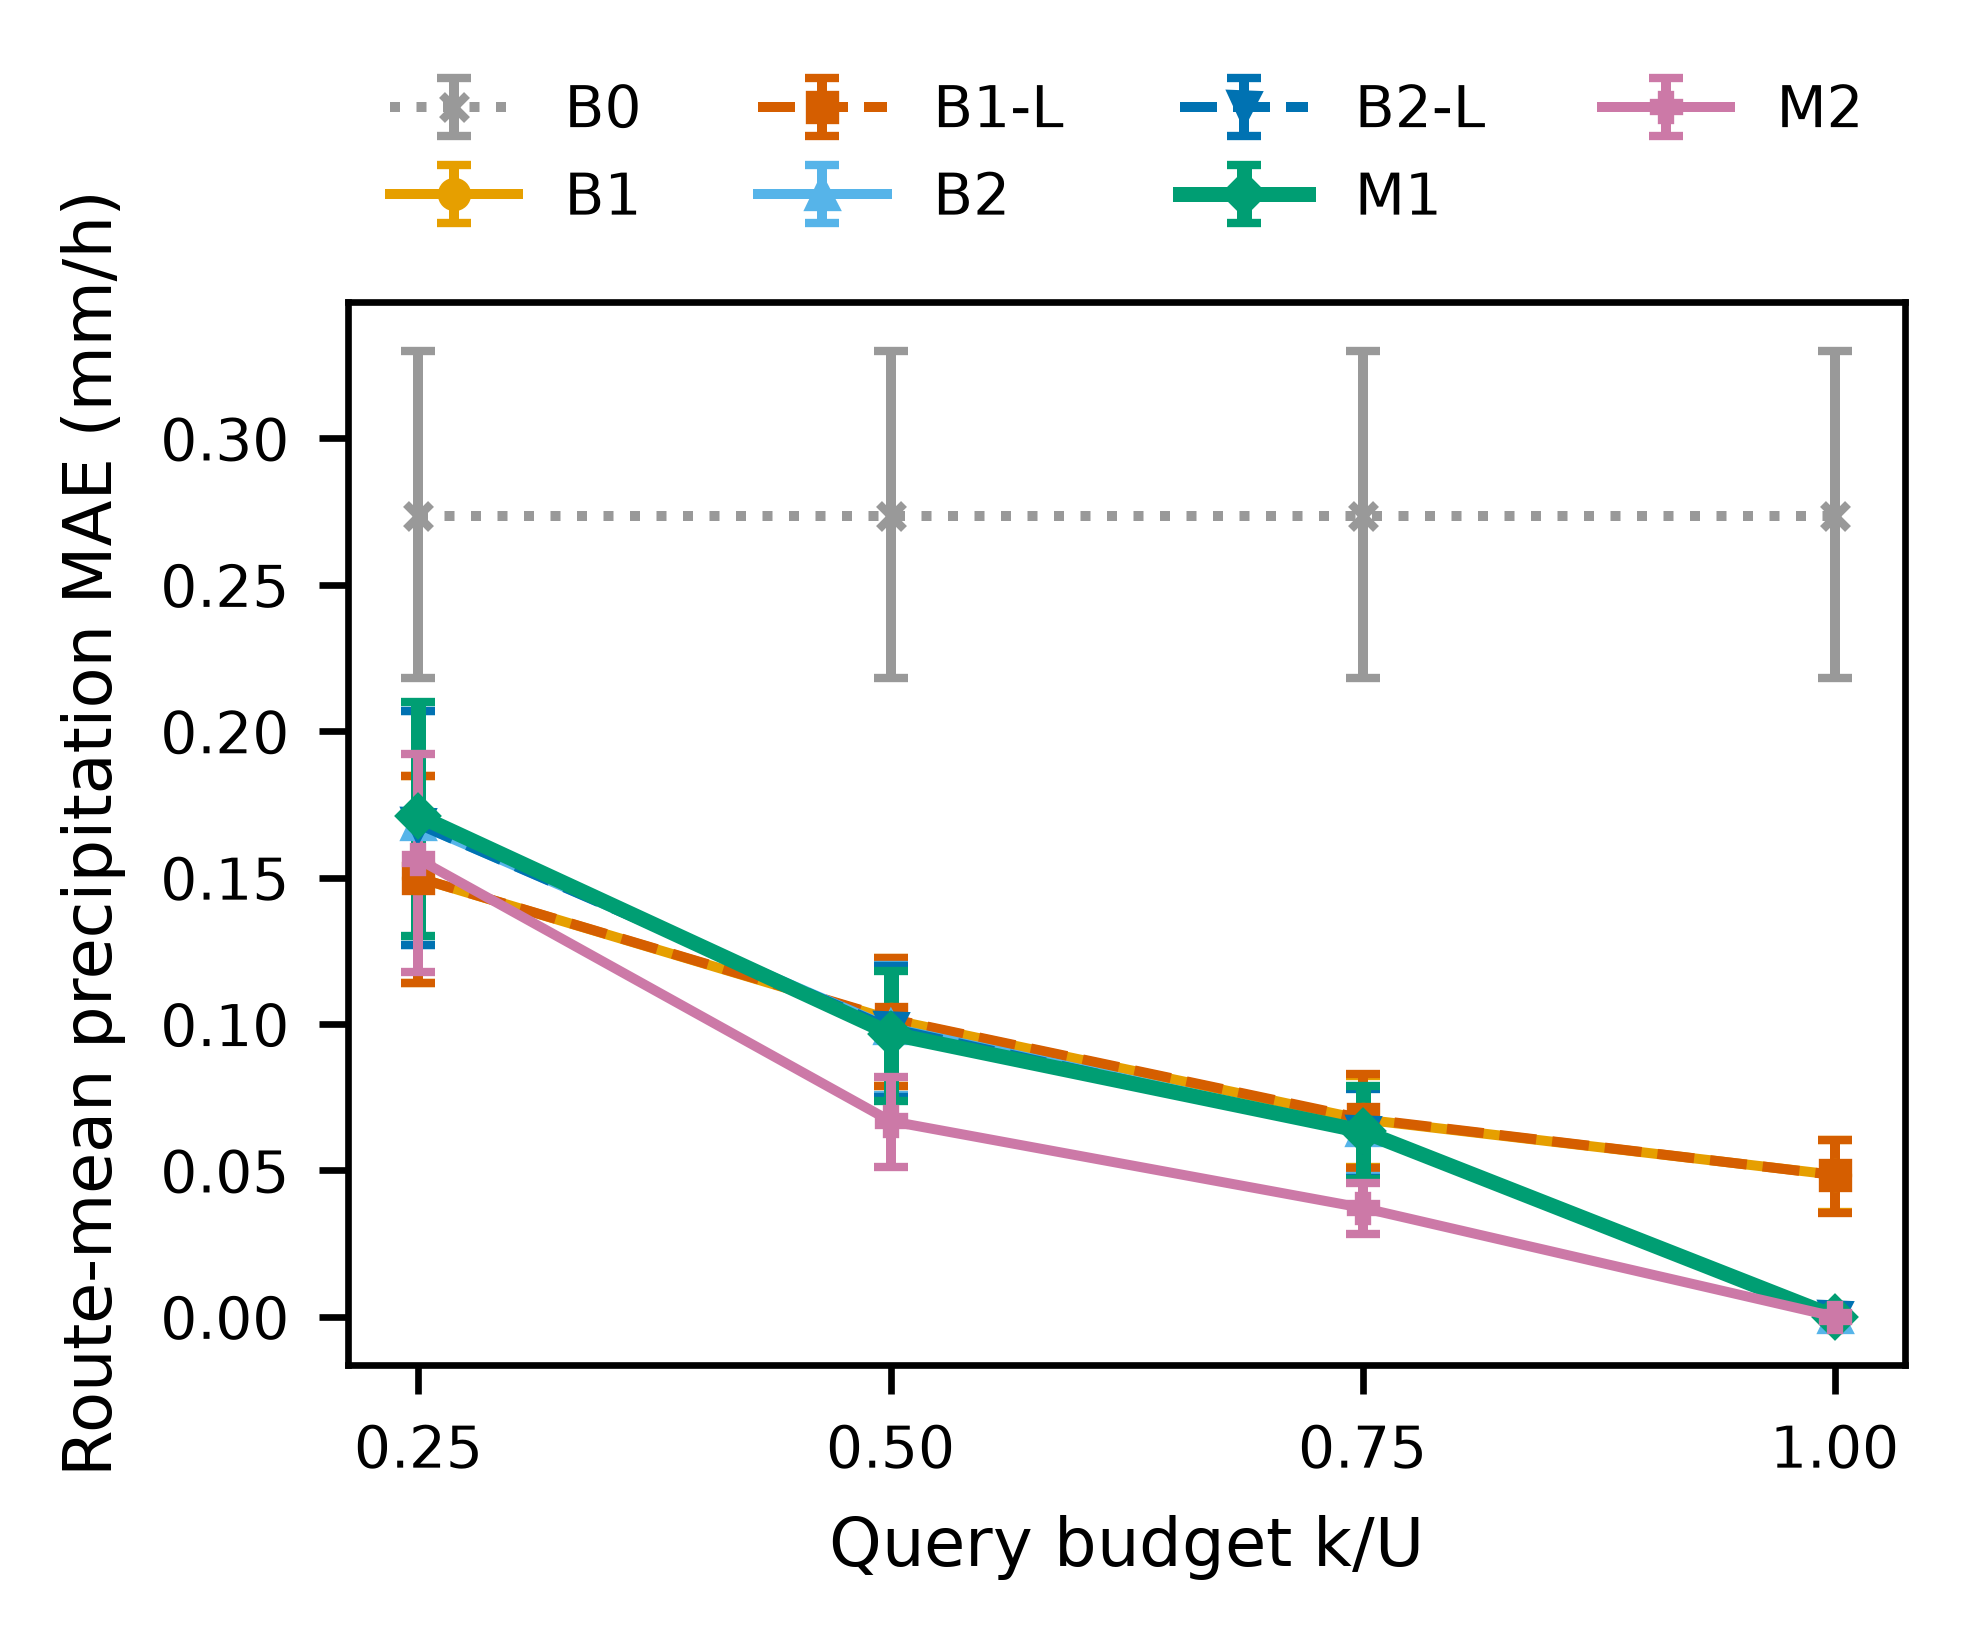
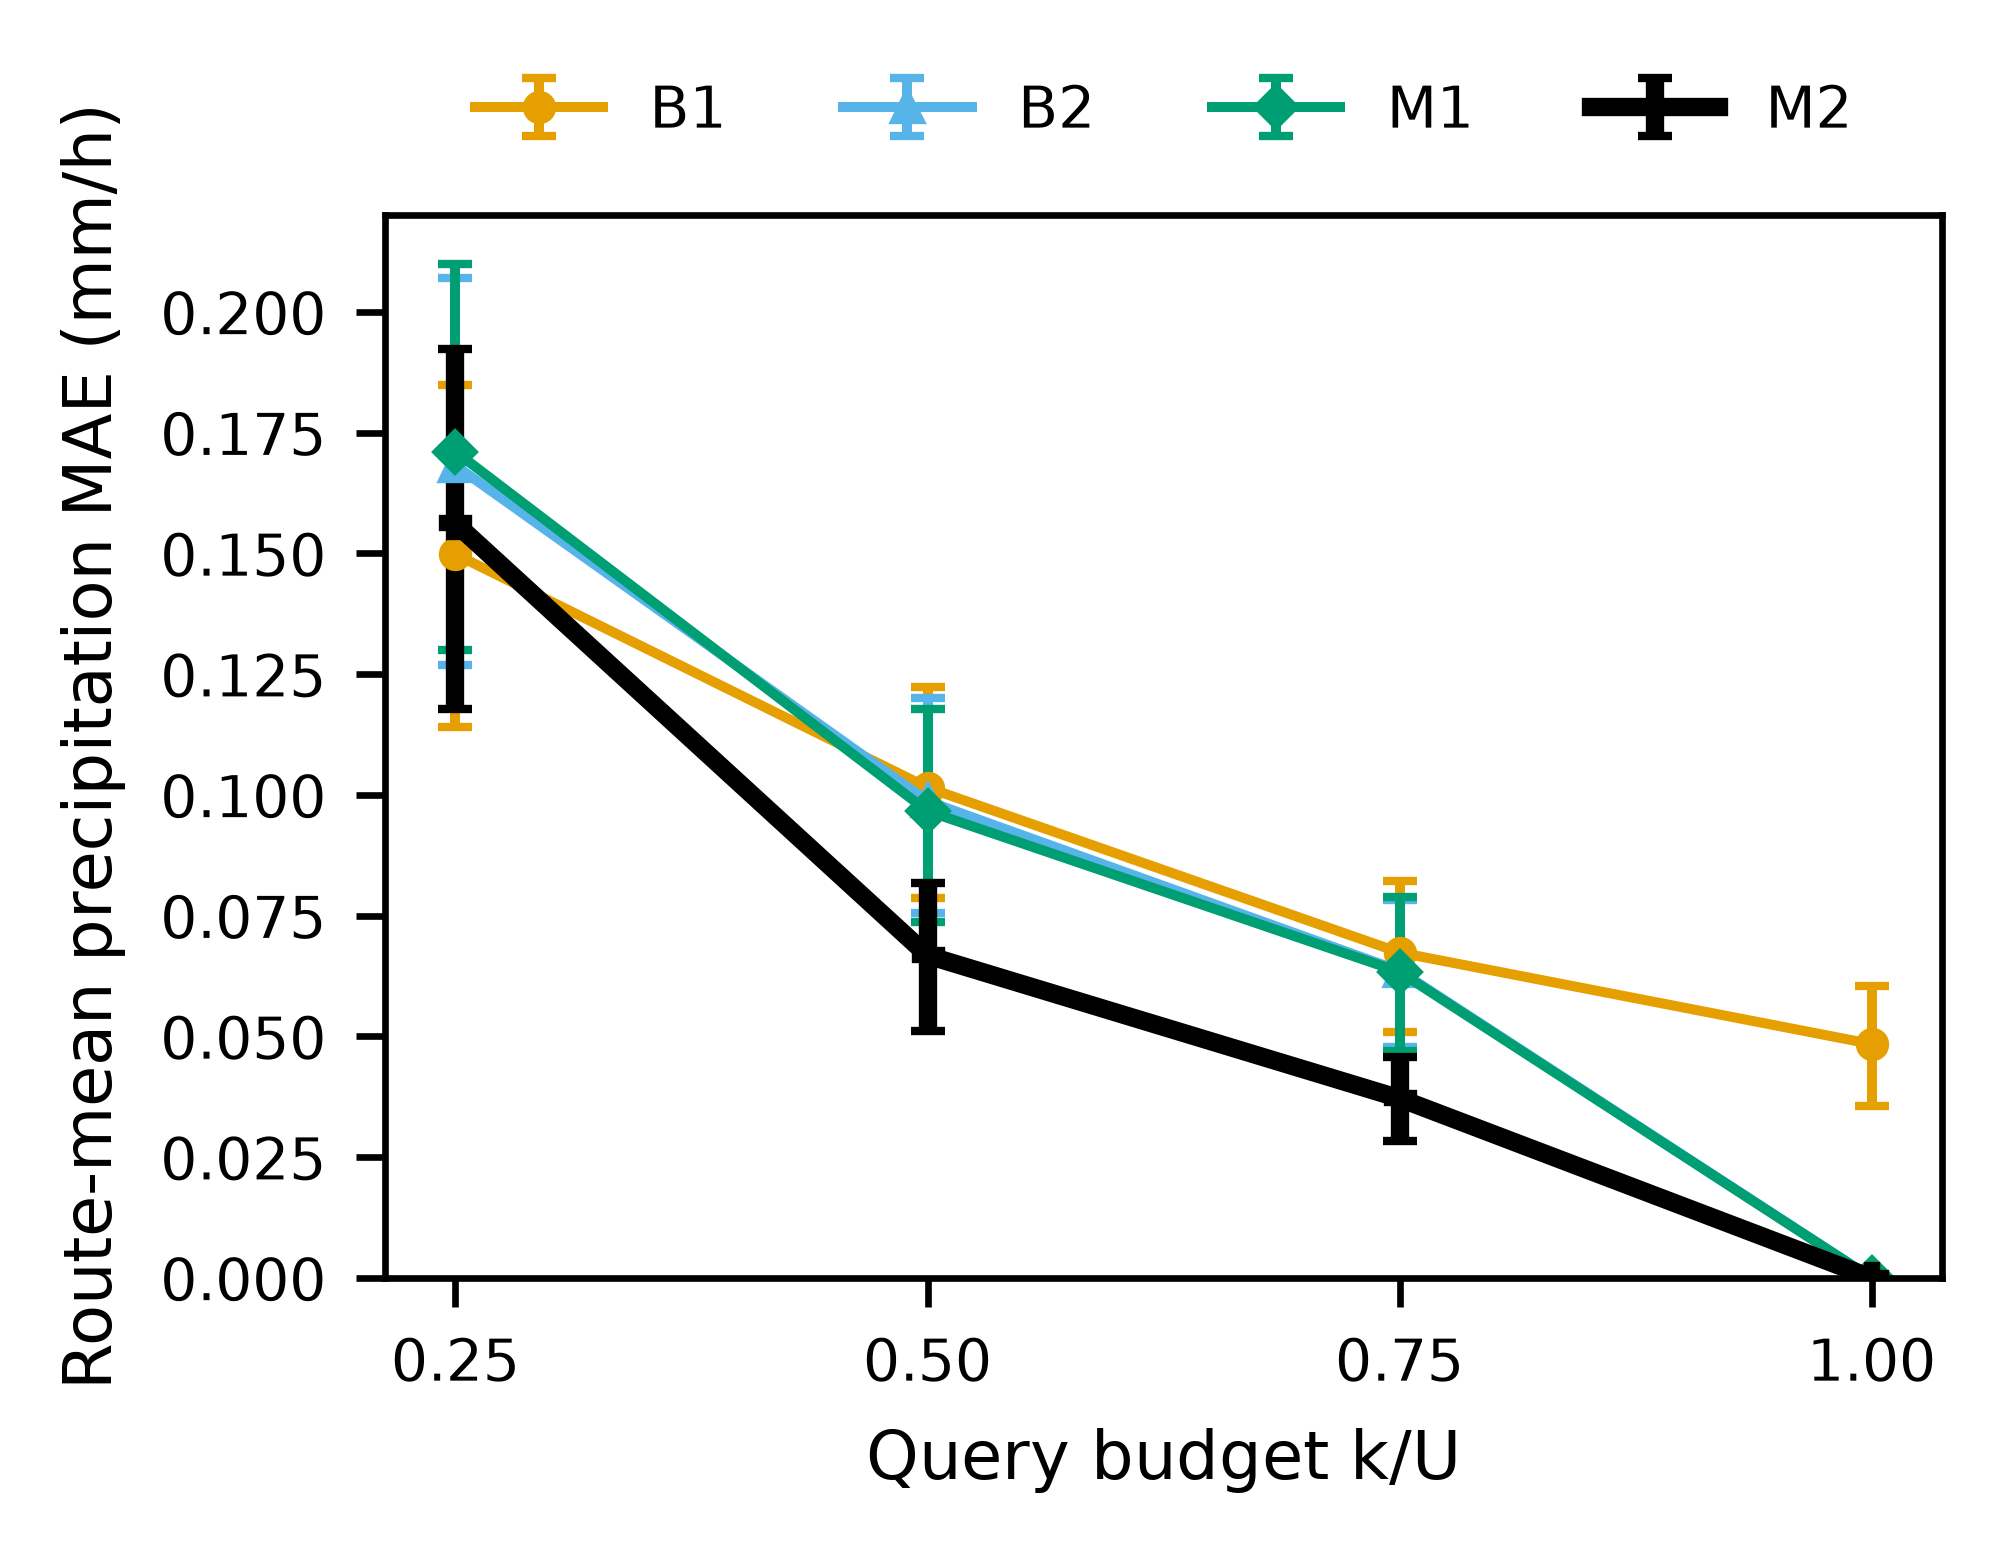
docs: 그림 1 강조 정리, 용어 통일, 구조도 이름 정리, 첫 오퍼 민감도 그림 추가

Changed region(s): [[0.031, 0.0309, 0.9934, 0.8952], [0.4036, 0.926, 0.745, 0.9569], [0.7761, 0.0309, 0.9623, 0.0926]]

diff --git a/scripts/figures/f10_offer.py b/scripts/figures/f10_offer.py
@@ -1,0 +1,43 @@
+"""F10 (post hoc, paper-revision-v1 X4/X6): median markup and match rate versus the number of bidding drivers when
+the rider bot's first offer is 0.80 (frozen E1), 0.90 or 1.00 times the base price, config C1.
+
+Inputs: results/sim/E1_summary.csv (0.80) and results/posthoc/sim/ob090|ob100/E1_summary.csv (summarize.py e1).
+"""
+import os
+
+import matplotlib.pyplot as plt
+
+import style
+
+CONFIG = "C1"
+LEVELS = [("0.80", ("sim",)), ("0.90", ("posthoc", "sim", "ob090")), ("1.00", ("posthoc", "sim", "ob100"))]
+LEGEND = {"frameon": False, "fontsize": 6, "loc": "upper center", "bbox_to_anchor": (0.5, 1.0), "ncol": 3}
+
+
+def _panel(ax, series, y, lo, hi, ylabel, title):
+    for i, (level, pts) in enumerate(series):
+        s = style.SERIES_STYLE[i]
+        x = [p[0] for p in pts]
+        ax.plot(x, [float(p[1][y]) for p in pts], color=s["color"], linestyle=s["linestyle"], marker=s["marker"],
+                markersize=style.MARKER_SIZE, label=f"First offer {level}")
+        ax.fill_between(x, [float(p[1][lo]) for p in pts], [float(p[1][hi]) for p in pts], color=s["color"],
+                        alpha=0.15, linewidth=0)
+    ax.set_xlabel("Bidding drivers")
+    ax.set_ylabel(ylabel)
+    ax.set_xticks([1, 4, 7, 10])
+    ax.set_title(title, fontsize=8)
+
+
+def make(results_dir, out_dir):
+    style.apply()
+    series = []
+    for level, parts in LEVELS:
+        rows = style.read_csv(os.path.join(results_dir, *parts, "E1_summary.csv"))
+        series.append((level, sorted((int(r["n"]), r) for r in rows if r["config"] == CONFIG)))
+    fig, (a, b) = plt.subplots(1, 2, figsize=style.SINGLE)
+    _panel(a, series, "markup_median", "ci_lo", "ci_hi", "Median markup", f"(a) {CONFIG}")
+    _panel(b, series, "match_rate", "mr_ci_lo", "mr_ci_hi", "Match rate", f"(b) {CONFIG}")
+    handles, labels = a.get_legend_handles_labels()
+    fig.legend(handles, labels, **LEGEND)          # one legend for both panels, above them
+    fig.tight_layout(rect=(0, 0, 1, 0.9))
+    return [style.save(fig, os.path.join(out_dir, "F10_offer.png"))]

diff --git a/scripts/figures/f1_curve.py b/scripts/figures/f1_curve.py
@@ -1,14 +1,21 @@
-"""F1: route-mean precipitation MAE versus query budget (results/model_a/F1_curve.csv, F1_kabs.csv, MAIN)."""
+"""F1: route-mean precipitation MAE versus query budget (results/model_a/F1_curve.csv, F1_kabs.csv, MAIN).
+
+Only B1, B2, M1 and M2 are drawn (paper-revision-v1 X6): B0, B1-L and B2-L stay in table 1 and the text, and
+M2 is drawn last so it is on top. Post-hoc rules are not drawn; the figure shows pre-registered results only.
+"""
 import os
 
 import matplotlib.pyplot as plt
 
 import style
 
+F1_METHODS = ["B1", "B2", "M1", "M2"]
+CURVE_YLIM = (0, 0.22)      # B0 (0.27) would squeeze the rest; M1's upper CI at k/U = 0.25 is 0.21
 
-def _draw(rows, xcol, xlabel, path, xticks=None):
+
+def _draw(rows, xcol, xlabel, path, xticks=None, ylim=None):
     fig, ax = plt.subplots(figsize=style.SINGLE)
-    for m in style.METHODS:
+    for m in F1_METHODS:
         pts = sorted((float(r[xcol]), r) for r in rows if r["subset"] == "MAIN" and r["method"] == m)
         if not pts:
             continue
@@ -19,6 +26,8 @@ def _draw(rows, xcol, xlabel, path, xticks=None):
     ax.set_ylabel("Route-mean precipitation MAE (mm/h)")
     if xticks:
         ax.set_xticks(xticks)
+    if ylim:
+        ax.set_ylim(*ylim)
     ax.legend(loc="lower center", bbox_to_anchor=(0.5, 1.02), ncol=4, frameon=False, handlelength=2.2)
     return style.save(fig, path)
 
@@ -28,6 +37,7 @@ def make(results_dir, out_dir):
     curve = style.read_csv(os.path.join(results_dir, "model_a", "F1_curve.csv"))
     kabs = style.read_csv(os.path.join(results_dir, "model_a", "F1_kabs.csv"))
     return [
-        _draw(curve, "rho", "Query budget k/U", os.path.join(out_dir, "F1_curve.png"), [0.25, 0.5, 0.75, 1.0]),
+        _draw(curve, "rho", "Query budget k/U", os.path.join(out_dir, "F1_curve.png"), [0.25, 0.5, 0.75, 1.0],
+              CURVE_YLIM),
         _draw(kabs, "k", "Query budget k (calls)", os.path.join(out_dir, "F1_kabs.png")),
     ]

diff --git a/scripts/figures/fake_results.py b/scripts/figures/fake_results.py
@@ -100,6 +100,11 @@ def sim(root, rng):
             e1.append([c, n, 30, m, m - 0.04, m + 0.04, 0.5 + 0.04 * n, 0.45 + 0.04 * n, 0.55 + 0.04 * n])
     _write(root, "sim/E1_summary.csv", ["config", "n", "runs", "markup_median", "ci_lo", "ci_hi", "match_rate",
                                         "mr_ci_lo", "mr_ci_hi"], e1)
+    for level, base in (("ob090", 0.9), ("ob100", 1.0)):        # post-hoc first-offer runs (F10)
+        rows = [[c, n, 30, base, base, base, 0.95 + 0.004 * n, 0.94 + 0.004 * n, 0.96 + 0.004 * n]
+                for c in CONFIGS for n in range(1, 11)]
+        _write(root, f"posthoc/sim/{level}/E1_summary.csv", ["config", "n", "runs", "markup_median", "ci_lo", "ci_hi",
+                                                             "match_rate", "mr_ci_lo", "mr_ci_hi"], rows)
     rounds = []
     for c in CONFIGS:
         w = [rng.random() for _ in range(20)]

diff --git a/scripts/figures/test_make_all.py b/scripts/figures/test_make_all.py
@@ -14,7 +14,7 @@ import style  # noqa: E402
 import t1  # noqa: E402
 
 FIGURES = ["F1_curve.png", "F1_kabs.png", "F2_uncertainty.png", "F3_markup.png", "F4_rounds.png", "F8_heatmap.png",
-           "F9_collusion.png"]
+           "F9_collusion.png", "F10_offer.png"]
 TABLES = ["T1", "T2", "T3", "T4", "T5", "T6"]
 
 
@@ -52,7 +52,7 @@ def test_missing_inputs_are_skipped_and_listed(tmp_path):
     os.remove(os.path.join(results, "collusion", "T6_S5.csv"))
     lines = []
     _, skipped = make_all.make_all(results, str(tmp_path / "f"), str(tmp_path / "t"), log=lines.append)
-    assert [s[0] for s in skipped] == ["F3", "T6"]
+    assert [s[0] for s in skipped] == ["F3", "F10", "T6"]
     assert lines[-1].startswith("skipped: F3 (sim")
     assert not (tmp_path / "f" / "F3_markup.png").exists()
 

diff --git a/scripts/figures/style.py b/scripts/figures/style.py
@@ -35,8 +35,9 @@ METHOD_STYLE = {
     "B1-L": {"color": "#D55E00", "linestyle": "--", "marker": "s"},
     "B2": {"color": "#56B4E9", "linestyle": "-", "marker": "^"},
     "B2-L": {"color": "#0072B2", "linestyle": "--", "marker": "v"},
-    "M1": {"color": "#009E73", "linestyle": "-", "marker": "D", "linewidth": 1.8},
-    "M2": {"color": "#CC79A7", "linestyle": "-", "marker": "P"},
+    "M1": {"color": "#009E73", "linestyle": "-", "marker": "D"},
+    # The proposed method stands out: black and thickest (paper-revision-v1 X6).
+    "M2": {"color": "#000000", "linestyle": "-", "marker": "P", "linewidth": 2.2},
 }
 CONFIGS = ["C1", "C2", "C3", "C4"]
 CONFIG_COLORS = {"C1": "#000000", "C2": "#E69F00", "C3": "#56B4E9", "C4": "#CC79A7"}

diff --git a/scripts/figures/f9_collusion.py b/scripts/figures/f9_collusion.py
@@ -34,15 +34,15 @@ def make(results_dir, out_dir):
 
     fig, (a, b) = plt.subplots(1, 2, figsize=style.SINGLE)
     _series(a, f9, "method", "pr_auc", "ci_lo", "ci_hi")
-    a.set_xlabel("Ring share")
+    a.set_xlabel("Collusion share")
     a.set_ylabel("PR-AUC (S4)")
     a.set_title("(a)", fontsize=8)
     a.legend(**LEGEND)
 
     _series(b, e7, "strategy", "delta_vs_0", "ci_lo", "ci_hi")
     b.axhline(0, color="#999999", linestyle=":", linewidth=1.0)
-    b.set_xlabel("Ring share")
-    b.set_ylabel("Markup change vs no ring")
+    b.set_xlabel("Collusion share")
+    b.set_ylabel("Markup change vs no collusion")
     b.set_title(f"(b) {E7_CONFIG}", fontsize=8)
     b.legend(**LEGEND)
     fig.tight_layout()

diff --git a/scripts/figures/make_all.py b/scripts/figures/make_all.py
@@ -25,6 +25,7 @@ ITEMS = [
     ("F4", "f4_rounds", "figure"),
     ("F8", "f8_heatmap", "figure"),
     ("F9", "f9_collusion", "figure"),
+    ("F10", "f10_offer", "figure"),
     ("T1", "t1", "table"),
     ("T2", "t2", "table"),
     ("T3", "t3", "table"),

diff --git a/results/figures/captions.md b/results/figures/captions.md
@@ -5,8 +5,8 @@
 ## 그림
 
 - **F1** (F1_curve.png)
-  - 조회 예산 비율에 따른 경로 평균 강수 오차
-  - Route-mean precipitation error versus query budget
+  - 조회 예산 비율에 따른 경로 평균 강수 오차(k/U = 1.0에서 셀 기반 방법은 전수 조회와 같아 오차 0, B0 0.274는 본문)
+  - Route-mean precipitation error versus query budget (cell-based methods are exact at k/U = 1.0; B0, 0.274, is in the text)
 - **F1_kabs** (F1_kabs.png)
   - 조회 횟수 k에 따른 경로 평균 강수 오차
   - Route-mean precipitation error versus number of queries k
@@ -24,7 +24,10 @@
   - Match rate by offer TTL and round limit
 - **F9** (F9_collusion.png)
   - 미학습 전략 S4의 담합 탐지 성능과 담합 비율에 따른 마크업 변화
-  - Collusion detection on unseen strategy S4 and markup change by ring share
+  - Collusion detection on unseen strategy S4 and markup change by collusion share
+- **F10** (F10_offer.png)
+  - 승객 첫 오퍼 수준별 호가 기사 수에 따른 마크업 중앙값과 체결률(C1, 사후 분석)
+  - Median markup and match rate versus bidding drivers by the rider's first offer (C1, post hoc)
 
 ## 표
 
@@ -35,7 +38,7 @@
   - 강수 할증 계수에 따른 할증 판단 일치율
   - Surcharge agreement by precipitation coefficient
 - **T3** (T3.md)
-  - 경로당 예보 조회 횟수와 캐시 키별 적중률
+  - 경로당 예보 호출 수와 캐시 키별 적중률
   - Forecast calls per route and cache hit rate by key
 - **T4** (T4.md)
   - 역경매 흥정과 고정가의 체결률·체결 시간 비교
